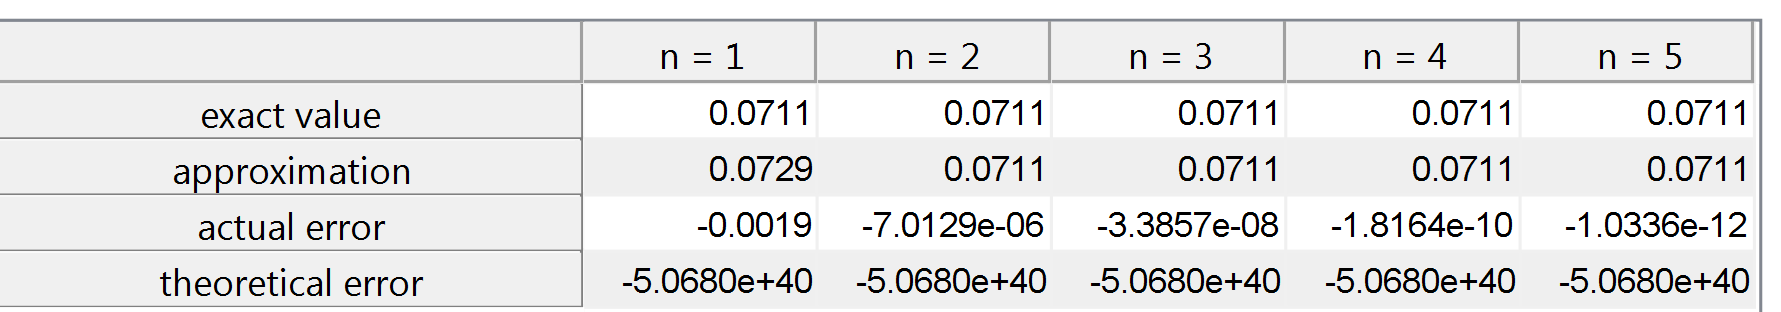
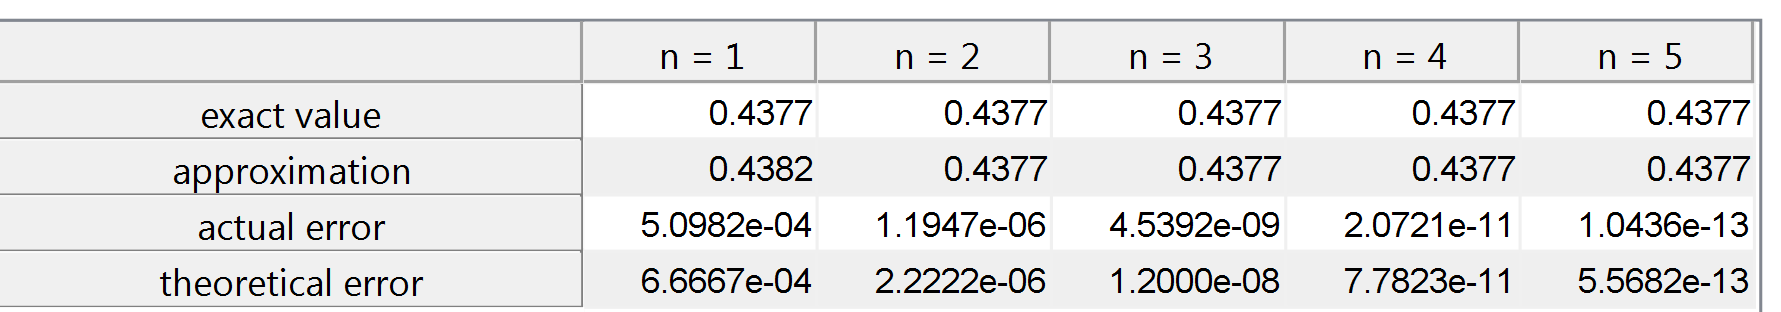
final

diff --git a/Fifth_semester/Numerical_Analysis/Gauss&MehlerQuadrature/Task1.m b/Fifth_semester/Numerical_Analysis/Gauss&MehlerQuadrature/Task1.m
@@ -1,62 +1,37 @@
 % draws table for Gauss Legendre quadrature
 function [ ] = Task1( func )
+    format long;
     a = 0;
     b = 0.4;
-    n0 = 4;
-    n = 13;
-    xs = n0 : 1 : n;
+    n = 5;
     
-    syms x;
-    I = double(vpa(int(func, sym('x'), a, b), 15));
-
-    for i = n0 : n
-        j = i - 3;
-        S = GaussLegendreQuadrature(func, a, b, i);
-        integrals(j) = I;
-        Sums(j) = S;
-        actualErrors(j) = I - S;
-        
+    I = eval(int(func, sym('x'), a, b));
+    for i = 1 : n
         % search of max difference in [a, b]
-        maxDiff = -inf;
-        df = diff(func, sym('x'), 2 * j);
-        x = a + 0.1 ;
-        maxDiff = eval(df);
-%         for j = 0 : 20
-%             x = a + i * 0.01;
-%             temp = eval(df);
-%             if (temp > maxDiff)
-%                 maxDiff = temp;
-%             end
-%         end
-    
-        error(j) = double((b - a)^(2 * j + 1) * (factorial(j))^4 /...
-                (2 * j + 1) / (fix(factorial(2 * j)))^3 * maxDiff);
-        theoreticalErrors(j) = error(j);
+        df = diff(func, sym('x'), 2 * i);
+        x = a : 0.01 : b;
+        ys = eval(df);
+        maxDiff = max(abs(ys));
+        error = (b - a)^(2 * i + 1) * (factorial(i))^4 /...
+                (2 * i + 1) / (factorial(2 * i))^3 * maxDiff;
+        
+        integrals(i) = I;
+        Sums(i) = GaussLegendreQuadrature(func, a, b, i);
+        actualErrors(i) = abs(integrals(i) - Sums(i));
+        theoreticalErrors(i) = error;
     end
-%     
-%     integrals = num2cell(integrals);
-%     Sums = num2cell(Sums);
-%     actualErrors = num2cell(actualErrors);
-%     theoreticalErrors = num2cell(theoreticalErrors);
-%     data = [integrals; Sums; actualErrors; theoreticalErrors];
-% 
-%     rowNames = {'exact value', 'approximation', 'actual error',...
-%                 'theoretical error'};
-%     columnNames = {'n = 1', 'n = 2', 'n = 3', 'n = 4', 'n = 5'};
-%     f = figure('Position', [500 500 570 100]);
-%     t = uitable( f, 'Data', data, 'ColumnName',columnNames,...
-%                 'RowName',rowNames,'Position', [0 0 565 95]);
-%     print(f, '-dpng', '-r300', 'table_GaussLegendre');
-    f = figure;
-    title('Gauss-Legendre Quadrature');
-    hold on;
-    grid on;
-    actErrPlot = semilogy(xs, actualErrors, 'DisplayName', 'Actual errors');
-    theorErrPlot = semilogy(xs, theoreticalErrors,...
-                            'DisplayName', 'Theoretical errors');
-    set(actErrPlot, 'LineWidth', 1.5);
-    set(theorErrPlot, 'LineWidth', 1.5);
-    legend('show');
+  
+    integrals = num2cell(integrals);
+    Sums = num2cell(Sums);
+    actualErrors = num2cell(actualErrors);
+    theoreticalErrors = num2cell(theoreticalErrors);
+    data = [integrals; Sums; actualErrors; theoreticalErrors];
     
+    rowNames = {'exact value', 'approximation', 'actual error',...
+        'theoretical error'};
+    columnNames = {'n = 1', 'n = 2', 'n = 3', 'n = 4', 'n = 5'};
+    f = figure('Position', [500 500 570 100]);
+    t = uitable( f, 'Data', data, 'ColumnName', columnNames,...
+                  'RowName',rowNames,'Position', [0 0 565 95]);
+    print(f, '-dpng', '-r300', 'table_GaussLegendre');
 end
-

diff --git a/Fifth_semester/Numerical_Analysis/Gauss&MehlerQuadrature/Task2.m b/Fifth_semester/Numerical_Analysis/Gauss&MehlerQuadrature/Task2.m
@@ -1,42 +1,37 @@
 % draws graph of errors for Mehler quadrature
 function [ ] = Task2( func )
-    n = 10;
-    xs = 1 : 1 : n;
+    format long;
     a = -1;
     b = 1;
-    format long;
-    I = vpa(int(func / sym('sqrt(1 - x^2)'), sym('x'), a, b), 15);
+    n = 10;
+    xs = 1 : 1 : n;
     
+    I = eval(int(func / sym('sqrt(1 - x^2)'), sym('x'), a, b));
     for k = 1 : n
         % search of max difference in [a, b]
-        maxDiff(k) = inf;
-        df = diff(func, sym('x'), 2 * k);
-        x = a + 0.5 ;
-        maxDiff(k) = eval(df);
-%         for i = 0 : 2 * n
-%             x = a + i * 0.1;
-%             temp = eval(df);
-%             if (temp < maxDiff(k))
-%                 maxDiff(k) = temp;
-%             end
-%         end
+%         df = diff(func, sym('x'), 2 * k);
+%         x = a : 0.01 : b;
+%         ys = eval(df);
+%         maxDiff = max(abs(ys));
         
-        maxError(k) = pi * maxDiff(k) / factorial(2 * k) / (2^(2 * k - 1));
+        df = diff(func, sym('x'), 2 * k);
+        x = a / 2 + b / 2;
+        maxDiff = abs(eval(df));
+
+        theoreticalErrors(k) = pi * maxDiff / factorial(2 * k) / (2^(2 * k - 1));
         Sums(k) = MehlerQuadrature(func, k);
-        actualErrors(k) = I - Sums(k);
+        actualErrors(k) = abs(I - Sums(k));
     end
-    
-    actualErrors = double(actualErrors);
     
     f = figure;
     title('Mehler Quadrature');
     hold on;
     grid on;
     actErrPlot = semilogy(xs, actualErrors, 'DisplayName', 'Actual errors');
-    theorErrPlot = semilogy(xs, maxError,...
+    theorErrPlot = semilogy(xs, theoreticalErrors,...
                             'DisplayName', 'Theoretical errors');
     set(actErrPlot, 'LineWidth', 1.5);
     set(theorErrPlot, 'LineWidth', 1.5);
     legend('show');
-    %print(f, '-dpng', '-r300', 'Mehler2');
+    print(f, '-dpng', '-r300', 'Mehler');
 end

diff --git a/Fifth_semester/Numerical_Analysis/Gauss&MehlerQuadrature/GaussLegendreQuadrature.m b/Fifth_semester/Numerical_Analysis/Gauss&MehlerQuadrature/GaussLegendreQuadrature.m
@@ -1,5 +1,6 @@
 % returns approximation of integral using Gauss quadrature
 function [ S ] = GaussLegendreQuadrature( func, a, b, n )
+    format long;
     if n > 5
         n = 5;
     end
@@ -8,15 +9,13 @@ function [ S ] = GaussLegendreQuadrature( func, a, b, n )
     end
 
     S = 0;
-    format long;
     xs = GetLegendreRoots(n);
     for i = 1 : n
         dPnx = dLegendrePolynomial(xs(i), n);
         w = 2 / (1 - xs(i) ^ 2) / dPnx ^ 2;
         x = ((b - a) / 2 * xs(i) + (a + b) / 2);
-        S_t = w * eval(func);
+        S_t = eval(w * eval(func));
         S = S + S_t;
     end
     S = (b - a) / 2 * S;
 end
-

diff --git a/Fifth_semester/Numerical_Analysis/Gauss&MehlerQuadrature/MehlerQuadrature.m b/Fifth_semester/Numerical_Analysis/Gauss&MehlerQuadrature/MehlerQuadrature.m
@@ -9,4 +9,3 @@ function [ S ] = MehlerQuadrature( func, n )
     
     S = S * pi / n;
 end
-
